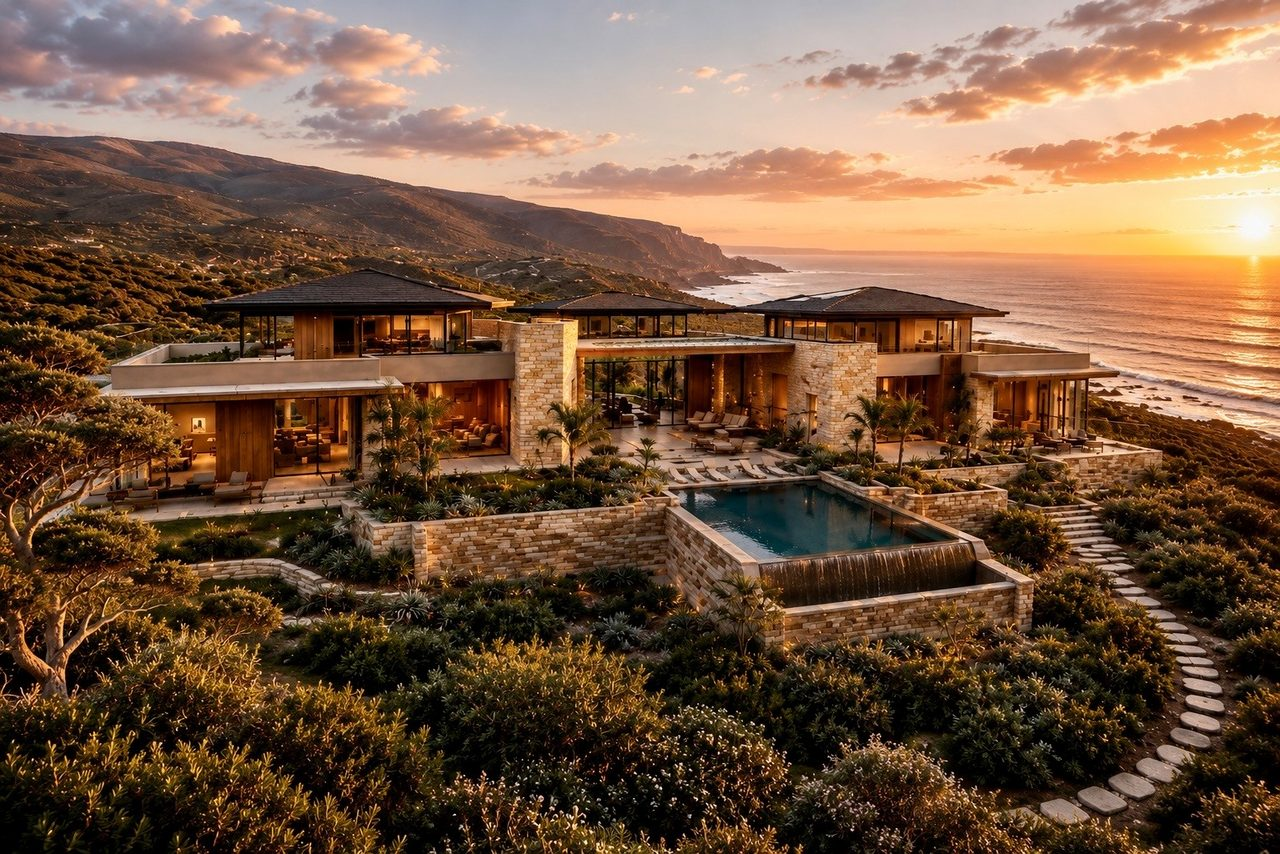
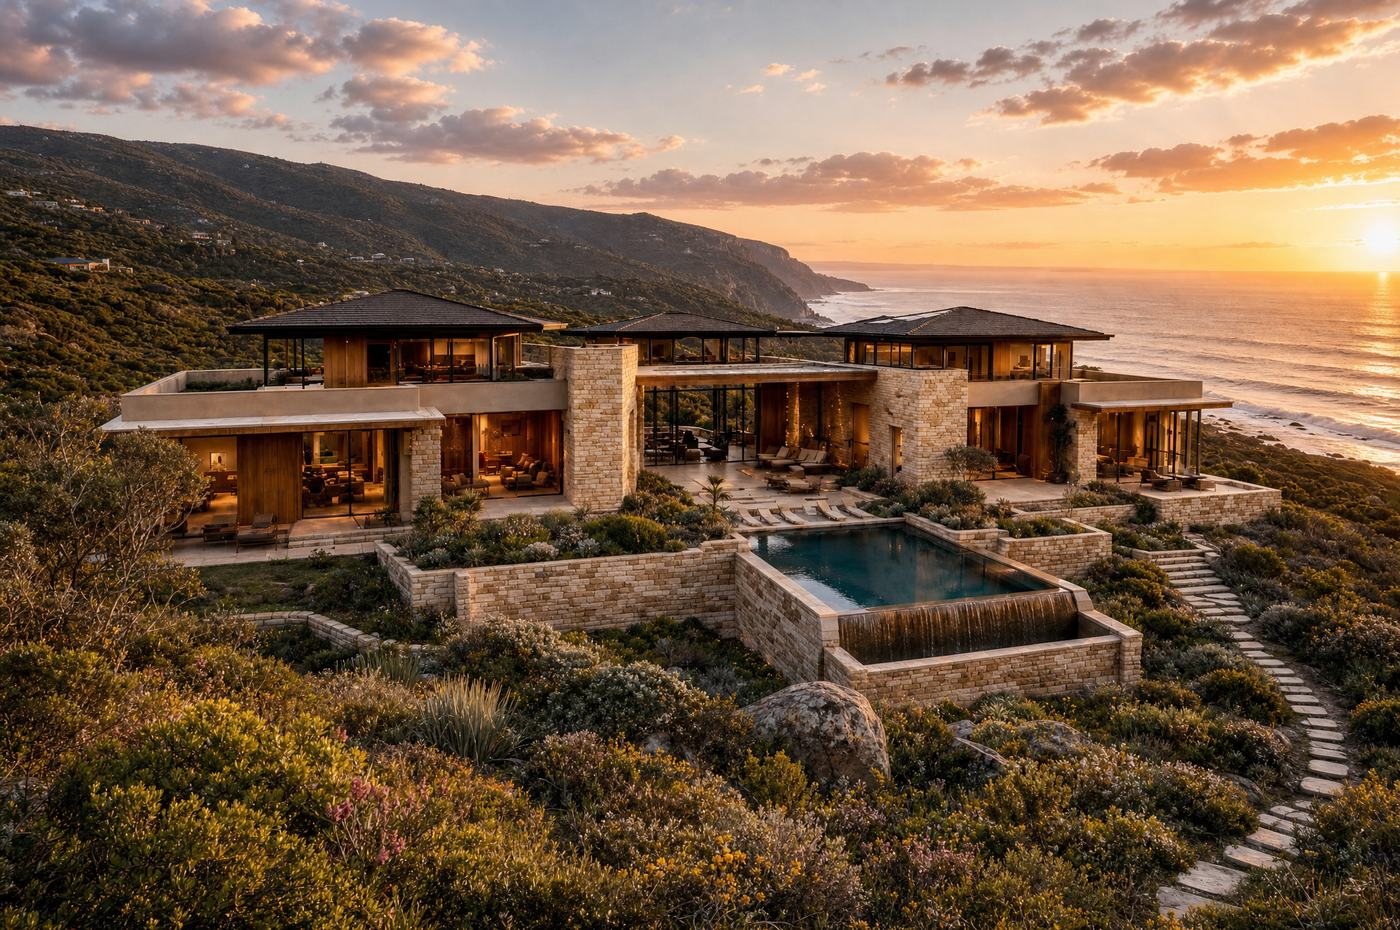
Use the Garden Route images Cindy approved, with her updated George render
Cindy confirmed on 16/08 that she is happy with the four adjusted property
images, and sent an updated George Mountain Retreat render - the earlier one
showed the range through the open front door. That new render is now the base
for George, with the same landscape adjustment applied: Outeniqua ridgeline,
fynbos in place of the lavender, house and garden untouched.

Mossel Bay and Plettenberg keep her originals, as agreed.

The renders review page becomes a record of what changed rather than a question.

diff --git a/public/renders/index.html b/public/renders/index.html
@@ -94,7 +94,7 @@
 
   <header class="top">
     <p class="mark">DOORS</p>
-    <h1>A small change to four of the property images, and a question for you.</h1>
+    <h1>The four adjusted property images are now live.</h1>
     <p class="lede">
       Thank you for the six renders. They are beautiful, and the houses in them are exactly right
       for what DOORS represents.
@@ -106,21 +106,22 @@
       would notice, and the whole promise of DOORS is that it knows this coast.
     </p>
     <p class="lede">
-      So we have adjusted four of the six. <strong>The houses are untouched.</strong> Only the
+      So we adjusted four of the six. <strong>The houses are untouched.</strong> Only the
       landscape around them has changed, to the plants, rock, water and light that are actually
-      there. <strong>Mossel Bay Cliff House and Plettenberg Beachfront we would leave exactly as you
-      sent them</strong> - we looked hard at both and yours are the better images.
+      there. <strong>Mossel Bay Cliff House and Plettenberg Beachfront are exactly as you sent
+      them</strong> - we looked hard at both and yours are the better images.
     </p>
 
     <div class="ask">
-      <h2>What we would like from you</h2>
+      <h2>Where this stands</h2>
       <p>
-        Simply whether you are happy with the adjusted versions, or would rather we use yours as
-        they were. It is entirely your call, and either is fine with us.
+        All six are now on the site. George Mountain Retreat uses your updated render, the one with
+        the front door closed, with the same landscape adjustment applied to it - so the mountain
+        range you spotted through the doorway is gone.
       </p>
       <p>
-        You can also mix them, property by property. Just reply with the ones you want changed and
-        the ones you want left alone.
+        This page stays up as a record of what changed. If you would rather have any of them back
+        the way you sent it, say the word and we will put it back.
       </p>
     </div>
   </header>
@@ -139,8 +140,9 @@
         </figure>
       </div>
       <div class="notes">
+        <p><span class="k">Your render</span>This is your updated one, sent 16 August, with the front door closed. The earlier version we were working from had the range showing through the doorway.</p>
         <p><span class="k">What changed</span>The lavender beds, oak trees and dry golden hills have gone. The range behind the house is now the Outeniquas as they actually stand above George: a long rugged ridgeline, green grass and fynbos on the lower slopes, a dark belt of forest at the foot, big open sky.</p>
-        <p><span class="k">What stayed</span>The house, the water channel, the paving and the planting beds are exactly as you sent them. The sky is clearer than in your version, because that is how the range reads on an ordinary good day here.</p>
+        <p><span class="k">What stayed</span>The house, the closed front door, the lawn, the water channel, the paving, the retaining wall and the layout of the planting beds are exactly as you sent them. Only the plants filling those beds changed, from lavender to fynbos.</p>
       </div>
     </article>
 
@@ -207,8 +209,7 @@
       default to California almost every time.
     </p>
     <p>
-      Nothing is on the website yet. Once you tell us which set you would like, we will load them
-      and you can see them in place.
+      All six are on the site now, so you can see them in place rather than side by side here.
     </p>
     <p class="sig">Tarryn &middot; LAUNCHT</p>
   </footer>
